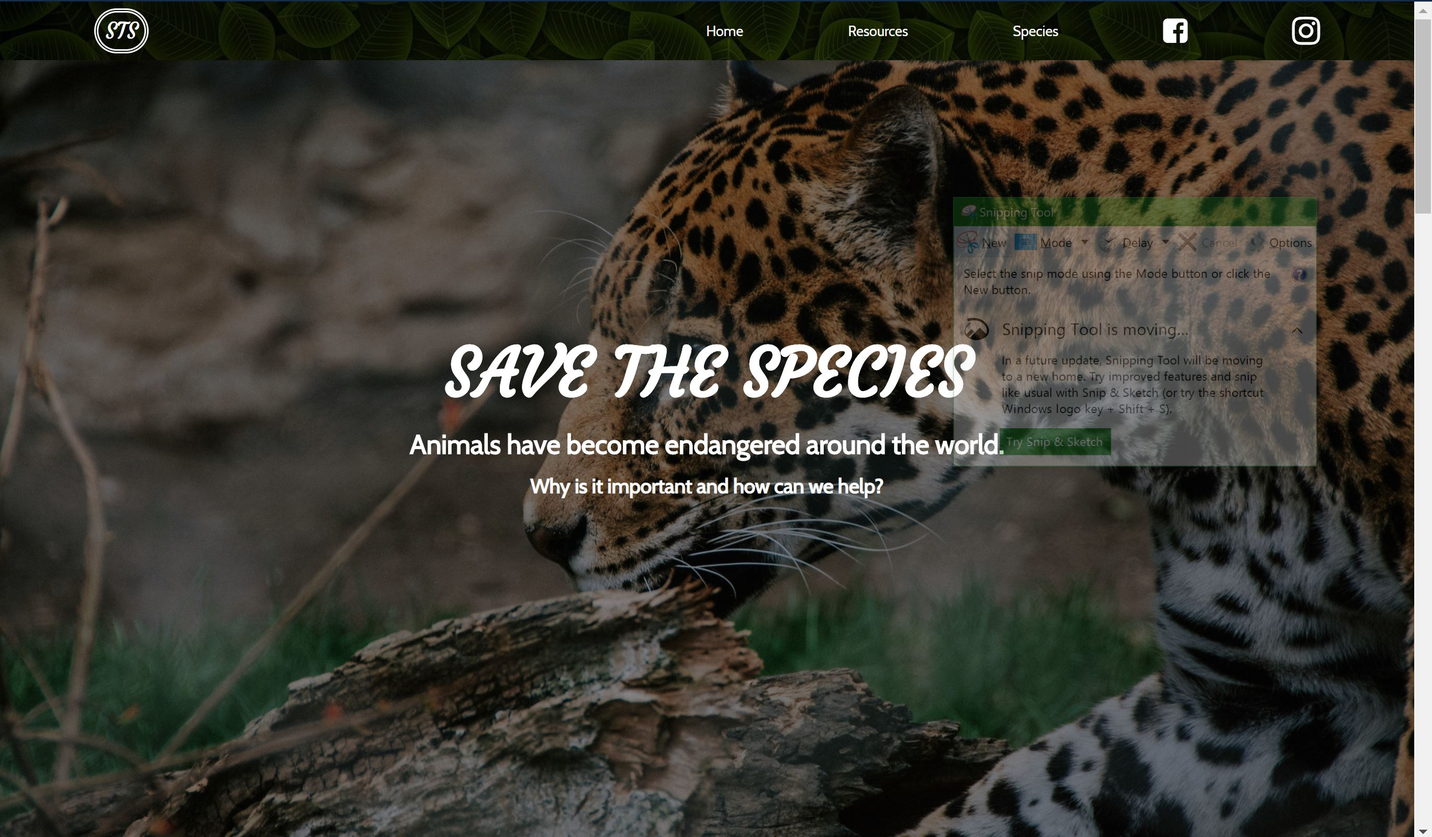
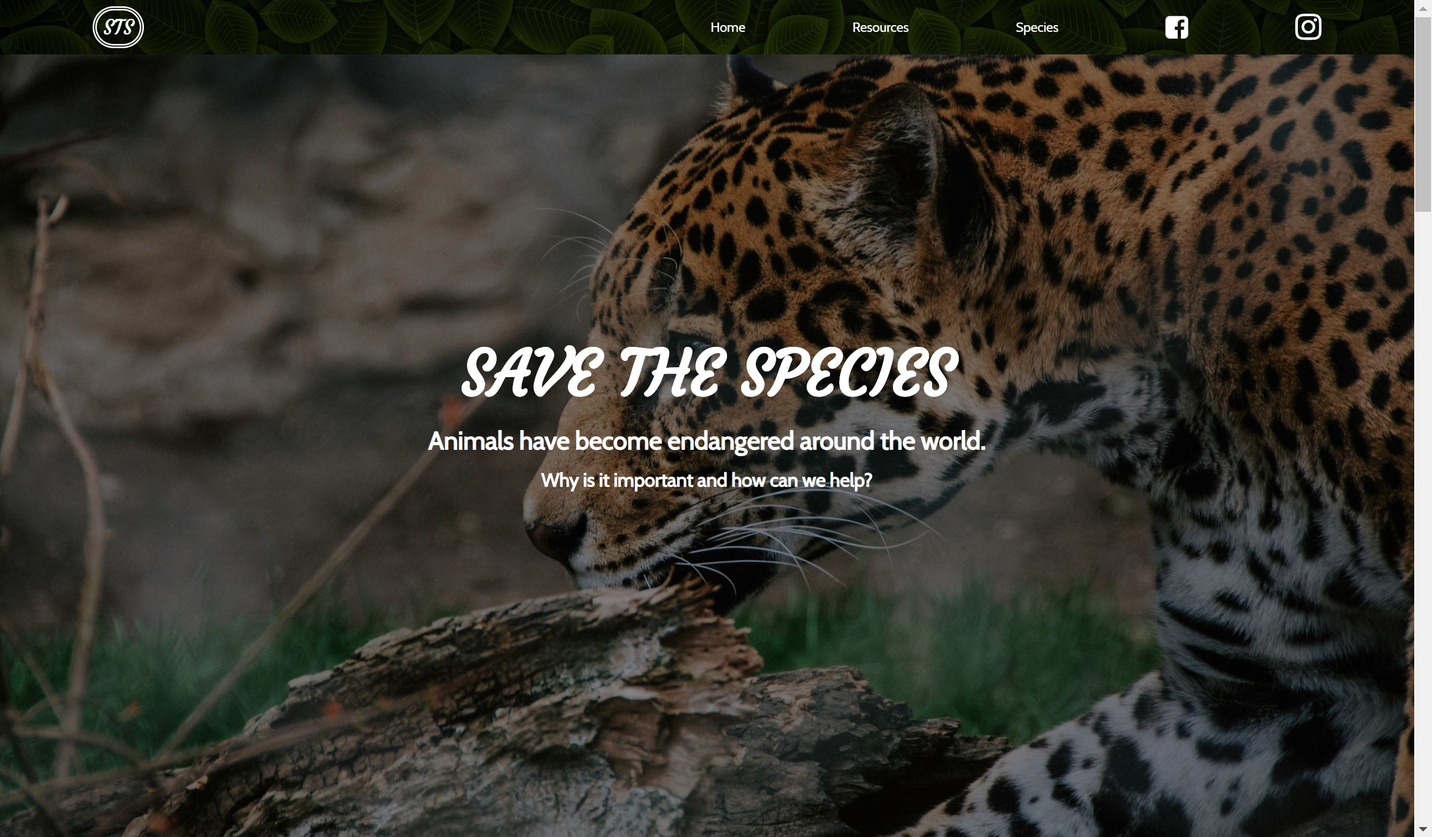
fixed site

diff --git a/css/styles.css b/css/styles.css
@@ -20,16 +20,16 @@ h6 {
 
 nav {
   width: 100%;
-  height: 100px;
+  min-height: 100px;
   display: -webkit-box;
   display: -ms-flexbox;
   display: flex;
   -webkit-box-align: center;
   -ms-flex-align: center;
   align-items: center;
-  -webkit-box-pack: justify;
-  -ms-flex-pack: justify;
-  justify-content: space-between;
+  -webkit-box-pack: center;
+  -ms-flex-pack: center;
+  justify-content: center;
   font-family: "Comfortaa", cursive; }
   nav .logo {
     width: 40%;
@@ -38,21 +38,20 @@ nav {
     color: white;
     font-family: "Dancing Script", cursive; }
   nav .link-wrap {
-    width: 1280px;
-    margin: 0 auto;
     width: 80%;
-    height: 100px;
+    min-height: 100px;
     display: -webkit-box;
     display: -ms-flexbox;
     display: flex;
     -webkit-box-align: center;
     -ms-flex-align: center;
     align-items: center;
-    -ms-flex-pack: distribute;
-    justify-content: space-around;
+    -webkit-box-pack: justify;
+    -ms-flex-pack: justify;
+    justify-content: space-between;
     border-bottom: 2px solid white; }
     nav .link-wrap .links {
-      width: 60%;
+      width: 50%;
       min-height: 50px;
       padding-left: 250px;
       display: -webkit-box;
@@ -61,8 +60,9 @@ nav {
       -webkit-box-align: center;
       -ms-flex-align: center;
       align-items: center;
-      -ms-flex-pack: distribute;
-      justify-content: space-around; }
+      -webkit-box-pack: justify;
+      -ms-flex-pack: justify;
+      justify-content: space-between; }
       nav .link-wrap .links a {
         text-decoration: none;
         color: white;
@@ -72,14 +72,17 @@ nav {
           color: #9fb0fe; }
 
 @media (max-width: 800px) {
-  nav .link-wrap {
-    width: 100%; }
-    nav .link-wrap .links {
-      margin-left: 0 auto;
+  nav {
+    padding-left: 25px;
+    padding-right: 25px; }
+    nav .link-wrap {
       width: 100%; }
-      nav .link-wrap .links a {
-        width: 80%;
-        font-size: 125%; } }
+      nav .link-wrap .links {
+        margin-left: 0 auto;
+        width: 100%; }
+        nav .link-wrap .links a {
+          width: 80%;
+          font-size: 125%; } }
 
 .hero-wrapper {
   width: 100%;
@@ -108,7 +111,7 @@ nav {
     -ms-flex-pack: center;
     justify-content: center;
     width: 80%;
-    height: 700px;
+    min-height: 700px;
     margin-top: -10%;
     background-color: pink;
     background-image: -webkit-gradient(linear, left top, right top, from(rgba(0, 0, 0, 0.6)), color-stop(rgba(159, 176, 254, 0.6)), to(rgba(0, 0, 0, 0.6))), url("../assets/typingtwo.jpg");
@@ -122,23 +125,24 @@ nav {
     background-position: center; }
     .hero-wrapper .hero h1 {
       color: black;
-      font-size: 150px;
+      font-size: 1000%;
       font-family: "Dancing Script", cursive;
       text-shadow: -0.5px 0 white, 0.5px 0 white, 0.5px 0 white, 0.5px 0 white; }
     .hero-wrapper .hero h2 {
       color: white;
-      font-size: 40px;
+      font-size: 300%;
       font-family: "Comfortaa", cursive; }
 
 @media (max-width: 800px) {
-  .hero .hero {
+  .hero-wrapper .hero {
     -webkit-box-orient: vertical;
     -webkit-box-direction: normal;
     -ms-flex-direction: column;
     flex-direction: column; }
-    .hero .hero h1,
-    .hero .hero h2 {
-      font-size: 50%;
+    .hero-wrapper .hero h1 {
+      font-size: 550%; }
+    .hero-wrapper .hero h2 {
+      font-size: 150%;
       display: -webkit-box;
       display: -ms-flexbox;
       display: flex;
@@ -225,12 +229,13 @@ nav {
         padding: 25px 0px 25px 0px; }
 
 @media (max-width: 800px) {
-  nav #about {
+  #about {
     height: 100%; }
-    nav #about .about-holder .about-info h1 {
+    #about .about-holder .about-info h1 {
       font-size: 150%; }
-    nav #about .about-holder .about-info p {
-      font-size: 50%; } }
+    #about .about-holder .about-info p {
+      margin-top: 10px;
+      font-size: 60%; } }
 
 #projects {
   width: 100%;
@@ -250,14 +255,21 @@ nav {
   justify-content: center;
   color: white; }
   #projects .title-holder {
-    width: 1280px;
-    margin: 0 auto;
     font-size: 350%;
     font-family: "Dancing Script", cursive;
     padding-bottom: 25px;
     text-align: center;
     margin-bottom: 50px; }
   #projects .project-holder {
+    display: -webkit-box;
+    display: -ms-flexbox;
+    display: flex;
+    -webkit-box-align: center;
+    -ms-flex-align: center;
+    align-items: center;
+    -webkit-box-pack: center;
+    -ms-flex-pack: center;
+    justify-content: center;
     padding-bottom: 50px; }
     #projects .project-holder .project-info-holder {
       background-color: rgba(255, 255, 255, 0.856);
@@ -266,9 +278,7 @@ nav {
       min-height: 500px;
       display: -webkit-box;
       display: -ms-flexbox;
-      display: flex;
-      width: 1280px;
-      margin: 0 auto; }
+      display: flex; }
       #projects .project-holder .project-info-holder .project-info {
         border-radius: 10px 0px 0px 10px;
         display: -webkit-box;
@@ -347,9 +357,7 @@ nav {
       min-height: 500px;
       display: -webkit-box;
       display: -ms-flexbox;
-      display: flex;
-      width: 1280px;
-      margin: 0 auto; }
+      display: flex; }
       #projects .project-holder .project-info-holder-two .project-info-two {
         border-radius: 0px 10px 10px 0px;
         display: -webkit-box;
@@ -421,6 +429,11 @@ nav {
           background-image: -webkit-linear-gradient(left, rgba(0, 0, 0, 0.5), rgba(0, 0, 0, 0.5)), url("../assets/saveSpecies.JPG");
           background-image: -o-linear-gradient(left, rgba(0, 0, 0, 0.5), rgba(0, 0, 0, 0.5)), url("../assets/saveSpecies.JPG");
           background-image: linear-gradient(to right, rgba(0, 0, 0, 0.5), rgba(0, 0, 0, 0.5)), url("../assets/saveSpecies.JPG"); }
+
+@media (max-width: 800px) {
+  #projects .title-holder {
+    font-size: 200%;
+    margin-bottom: 10px; } }
 
 .footer-wrapper {
   margin-top: 50px;

diff --git a/scss/nav.scss b/scss/nav.scss
@@ -1,10 +1,10 @@
 //this page styles the navigation for the page
 nav {
   width: 100%;
-  height: 100px;
+  min-height: 100px;
   display: flex;
   align-items: center;
-  justify-content: space-between;
+  justify-content: center;
   font-family: $comf;
 
   .logo {
@@ -17,23 +17,21 @@ nav {
   }
 
   .link-wrap {
-    //background-color: orange;
-    @include center-content();
     width: 80%;
-    height: 100px;
+    min-height: 100px;
     display: flex;
     align-items: center;
-    justify-content: space-around;
+    justify-content: space-between;
     border-bottom: 2px solid white;
 
     .links {
-      width: 60%;
+      width: 50%;
       min-height: 50px;
       //background-color: blue;
       padding-left: 250px;
       display: flex;
       align-items: center;
-      justify-content: space-around;
+      justify-content: space-between;
 
       a {
         text-decoration: none;
@@ -51,6 +49,8 @@ nav {
 
 @media (max-width: 800px) {
   nav {
+    padding-left: 25px;
+    padding-right: 25px;
     .link-wrap {
       width: 100%;
       .links {

diff --git a/scss/projects.scss b/scss/projects.scss
@@ -8,7 +8,6 @@
   color: white;
 
   .title-holder {
-    @include center-content();
     font-size: 350%;
     font-family: $dance;
     padding-bottom: 25px;
@@ -17,6 +16,9 @@
   }
 
   .project-holder {
+    display: flex;
+    align-items: center;
+    justify-content: center;
     padding-bottom: 50px;
     .project-info-holder {
       background-color: rgba(255, 255, 255, 0.856);
@@ -24,7 +26,6 @@
       width: 80%;
       min-height: 500px;
       display: flex;
-      @include center-content();
 
       .project-info {
         border-radius: 10px 0px 0px 10px;
@@ -114,8 +115,6 @@
       width: 80%;
       min-height: 500px;
       display: flex;
-      @include center-content();
-
       .project-info-two {
         border-radius: 0px 10px 10px 0px;
         display: flex;
@@ -195,6 +194,15 @@
             url("../assets/saveSpecies.JPG");
         }
       }
+    }
+  }
+}
+
+@media (max-width: 800px) {
+  #projects {
+    .title-holder {
+      font-size: 200%;
+      margin-bottom: 10px;
     }
   }
 }

diff --git a/scss/hero-wrapper.scss b/scss/hero-wrapper.scss
@@ -11,7 +11,7 @@
     align-items: center;
     justify-content: center;
     width: 80%;
-    height: 700px;
+    min-height: 700px;
     margin-top: -10%;
     background-color: pink;
     background-image: linear-gradient(
@@ -29,26 +29,28 @@
 
     h1 {
       color: black;
-      font-size: 150px;
+      font-size: 1000%;
       font-family: $dance;
       text-shadow: -0.5px 0 white, 0.5px 0 white, 0.5px 0 white, 0.5px 0 white;
     }
 
     h2 {
       color: white;
-      font-size: 40px;
+      font-size: 300%;
       font-family: $comf;
     }
   }
 }
 
 @media (max-width: 800px) {
-  .hero {
+  .hero-wrapper {
     .hero {
       flex-direction: column;
-      h1,
+      h1 {
+        font-size: 550%;
+      }
       h2 {
-        font-size: 50%;
+        font-size: 150%;
         display: flex;
         flex-direction: column;
       }

diff --git a/scss/about.scss b/scss/about.scss
@@ -59,18 +59,17 @@
 }
 
 @media (max-width: 800px) {
-  nav {
-    #about {
-      height: 100%;
-      .about-holder {
-        .about-info {
-          h1 {
-            font-size: 150%;
-          }
+  #about {
+    height: 100%;
+    .about-holder {
+      .about-info {
+        h1 {
+          font-size: 150%;
+        }
 
-          p {
-            font-size: 50%;
-          }
+        p {
+          margin-top: 10px;
+          font-size: 60%;
         }
       }
     }

diff --git a/scss/styles.scss b/scss/styles.scss
@@ -1,5 +1,4 @@
 @import "variable.scss";
-@import "mix-ins.scss";
 @import "structure.scss";
 @import "nav.scss";
 @import "hero-wrapper.scss";
